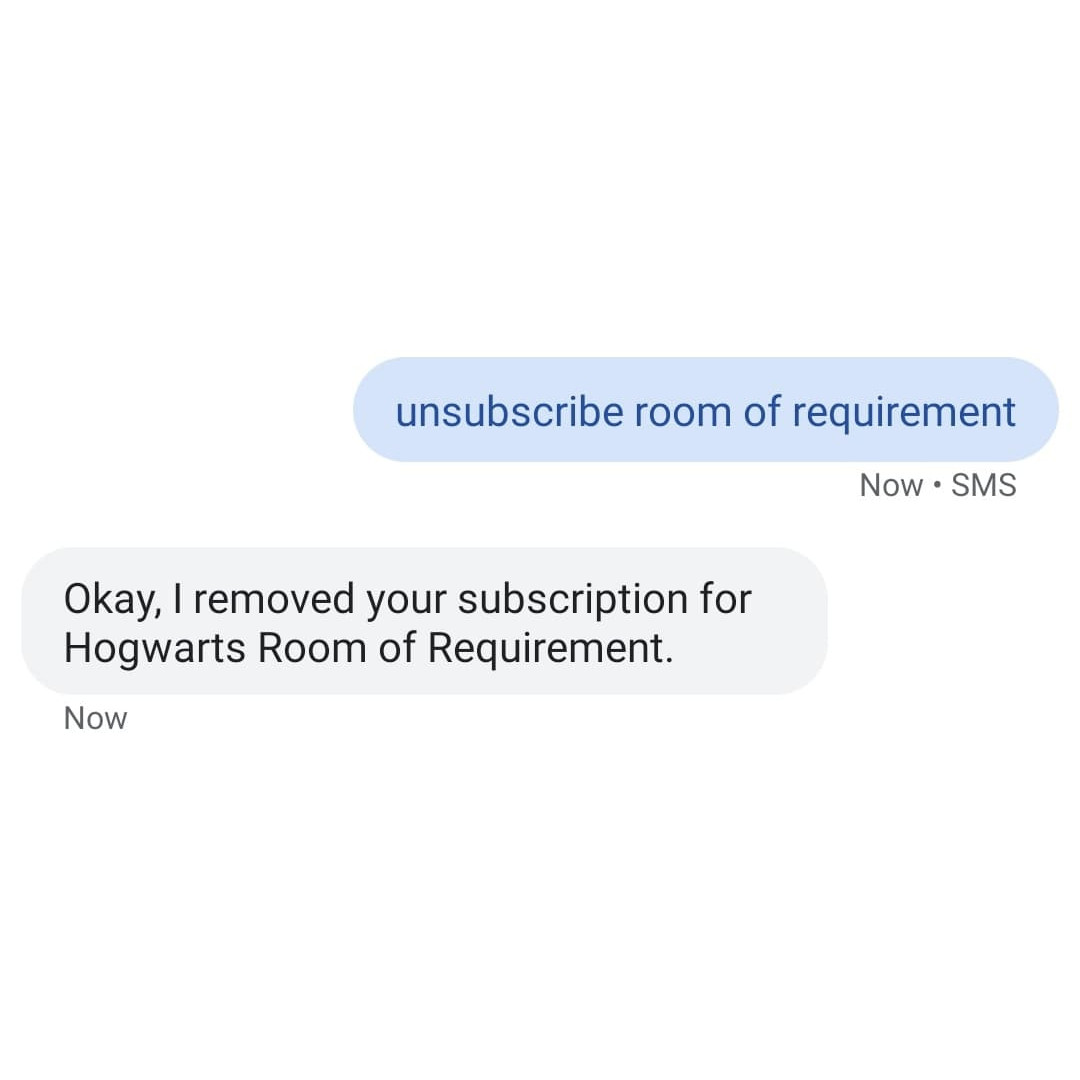
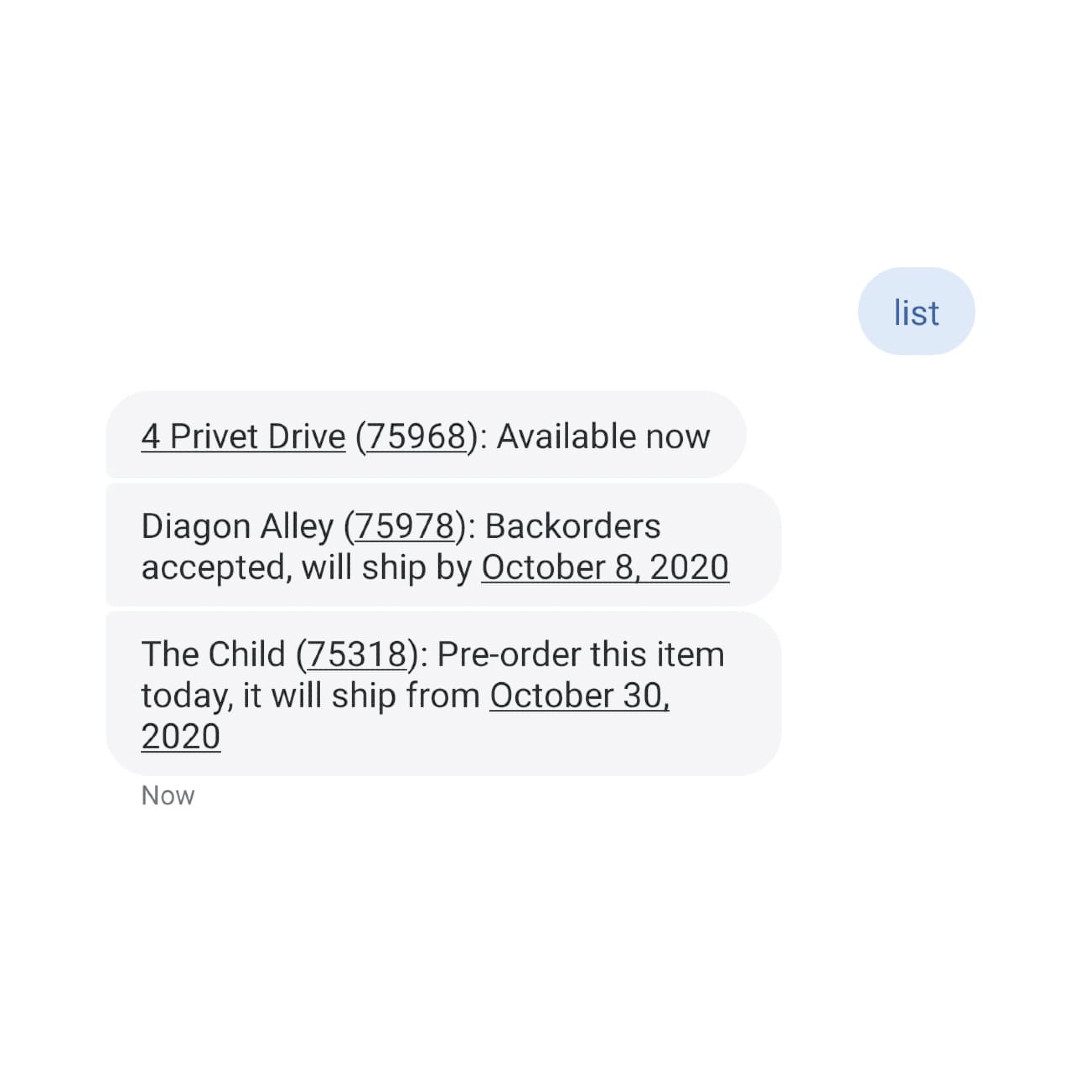
add list command to landing page

Changed region(s): [[0.0611, 0.4583, 0.7028, 0.7028], [0.1222, 0.2444, 0.9778, 0.4583], [0.1222, 0.7333, 0.1833, 0.7639]]

diff --git a/index.html b/index.html
@@ -69,7 +69,7 @@
           <p><a href="sms:+13015916061?&body=info">Text "info" to 301-591-6061 to get started.</a></p>
 					<ul class="actions">
 						<li><a href="sms:+13015916061?&body=info" class="button primary icon solid fa-paper-plane">Try it now</a></li>
-						<li><a href="#one" class="button icon solid fa-chevron-down scrolly">How it works</a></li>
+						<li><a href="#commands" class="button icon solid fa-chevron-down scrolly">How it works</a></li>
           </ul>
           <span>Msg & data rates may apply. Only supported in the United States.</span>
 				</div>
@@ -77,9 +77,9 @@
 			</header>
 
 		<!-- One -->
-			<section id="one" class="wrapper style2 special">
+			<section id="slogan" class="wrapper style2 special">
 				<header class="major">
-					<h2>Never waste time refreshing LEGO.com again.</h2>
+					<h2>Stop refreshing LEGO.com.</h2>
 				</header>
 				<!-- <ul class="icons major">
 					<li><span class="icon solid fa-camera-retro"><span class="label">Shoot</span></span></li>
@@ -89,7 +89,7 @@
 			</section>
 
 		<!-- Two -->
-			<section id="two" class="wrapper">
+			<section id="commands" class="wrapper">
 				<div class="inner alt">
 					<section class="spotlight">
 						<div class="image"><img src="images/screenshot1.jpg" alt="" /></div>
@@ -107,6 +107,13 @@
 					</section>
 					<section class="spotlight">
 						<div class="image"><img src="images/screenshot3.jpg" alt="" /></div>
+						<div class="content">
+							<h3>List</h3>
+							<p>Keep track of sets that you're tracking by texting "list".</p>
+						</div>
+          </section>
+					<section class="spotlight">
+						<div class="image"><img src="images/screenshot4.jpg" alt="" /></div>
 						<div class="content">
 							<h3>Unsubscribe</h3>
 							<p>Finally got the set you were looking for? Simply text "unsubscribe (set)" so Brick Hound knows to stop barking at you about it.</p>
@@ -465,7 +472,7 @@ print 'It took ' + i + ' iterations to sort the deck.';</code></pre>
 					<li><a href="#" class="icon brands fa-instagram"><span class="label">Instagram</span></a></li>
         </ul> -->
         <p class="copyright">
-          Your phone number will only be used to send alerts as requested by you. No other personally identifying information will be collected by Brick Hound, and your phone number will not be shared. You may text "STOP" at any time to immediately terminate all text messages. Brick Hound partners with Rakuten Advertising and receives a commission every time you make a purchase using one of our links. You can find Rakuten's privacy policy <a href="https://rakutenadvertising.com/legal-notices/services-privacy-policy/" target="_blank">here</a>.
+          Your phone number will only be used to send alerts as requested by you. No other personally identifying information will be collected by Brick Hound, and your phone number will not be shared. You may text "STOP" at any time to immediately terminate all text messages - service will only resume if you type "START". Brick Hound partners with Rakuten Advertising and receives a commission every time you make a purchase using one of our links. You can find Rakuten's privacy policy <a href="https://rakutenadvertising.com/legal-notices/services-privacy-policy/" target="_blank">here</a>.
         </p>
         <p class="copyright">
           <span>&copy; Akshay Guthal 2020. All Rights Reserved.</span>

diff --git a/assets/css/main.css b/assets/css/main.css
@@ -4135,6 +4135,8 @@ input, select, textarea {
 		}
 
 		#footer .copyright {
+      padding-left: 10%;
+      padding-right: 10%;
 			font-size: 0.8em;
 		}
 
